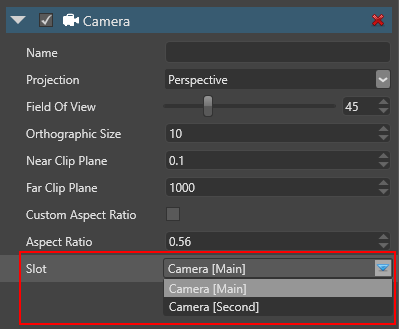
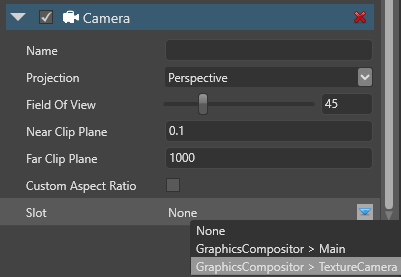
[Graphics compositor] render-to-a-texture.md - update

diff --git a/manual/graphics/graphics-compositor/render-to-a-texture.md b/manual/graphics/graphics-compositor/render-to-a-texture.md
@@ -4,7 +4,9 @@ You can render to textures in your scene instead of directly to the screen. For 
 
 ## 1. Create a camera slot
 
-Camera slots link the graphics compositor to the cameras in your scene. For more information, see [Camera slots](camera-slots.md).
+Camera slots link the graphics compositor to the cameras in your scene. You need to add a camera slot for your new camera to use.
+
+For more information, see [Camera slots](camera-slots.md).
 
 1. In the **asset view** (in the bottom pane by default), double-click the **Graphics Compositor** asset.
 
@@ -49,7 +51,7 @@ Game Studio adds a **render target** texture to your project assets.
 
 ![Render texture](media/render-target-texture-in-asset-view.png) 
 
-## 4. Use the render target texture
+## 4. Place the render target texture in the scene
 
 There are various ways you can use the render target texture.
 
@@ -89,21 +91,74 @@ There are various ways you can use the render target texture.
 
 ## 5. Set up the graphics compositor
 
-> [!Note]
-> There are several ways to implement this in the graphics compositor. This page explains one method.
+To display a render texture in your scene, you need at least two renderers:
+
+* one to render your main camera
+* one to render the second camera to the render texture
+
+This page describes the simplest way to do this from scratch, using a **scene render collection** of two cameras and two renderers. Depending on your pipeline, you might need to create a different setup.
 
 1. In the graphics compositor, select the **Entry points** node.
 
     ![Entry points node](media/entry-points-node.png)
 
-2. In the **property grid** on the right, next to **Game renderer**, click the blue arrow and select **
+2. In the **property grid** on the right, next to **Game renderer**, click the **blue arrow** button and select **None** to delete your existing renderers.
 
-...
+    ![Cleared game renderers](media/game-renderers-cleared.png)
 
-3. Select **SceneRendererCollection**.
+### 1. Render the main camera
 
-4. 
+1. Click the **blue arrow** button and select **SceneRendererCollection**. 
+
+    ![Select scene renderer collection](media/select-scene-renderer-collection.png)
+
+2. Next to **Children**, click the **Green plus icon** and select **Render camera**.
+
+    ![Select render camera](media/select-render-camera.png)
+
+3. Next to **Camera**, click the **blue arrow** button and select your **main game camera**. This shouldn't be the camera you want to render to a texture from.
+
+    ![Select main camera](media/select-main-camera.png)
+
+4. Next to **Child**, select the renderer for your main game camera (eg the **forward renderer**).
+
+    ![Select forward render](media/select-main-camera-forward-renderer.png)
+
+### 2. Render the texture
+
+1. Under **Game renderer**, next to **Children**, click the **Green plus icon** and select **Render camera**.
+
+    ![Select render camera](media/select-render-camera2.png)
+
+2. Expand the **Render Camera** list item.
+
+    ![Expand list](media/expand-list.png)
+
+3. Next to **Camera**, click the **blue arrow** button and select the camera you want to render to a texture. 
+
+    ![Select texture camera](media/select-texture-camera.png)
+
+4. Next to **Child**, click the **blue arrow** button and select **RenderTextureSceneRenderer**.
+
+    ![Select render texture scene renderer](media/render-texture-scene-renderer.png)
+
+5. Under the **RenderTextureSceneRenderer**, next to **Child**, click the **blue arrow** button and select renderer for your main game camera (eg the **forward renderer**).
+
+    ![Select forward renderer](media/select-forward-renderer2.png)
+
+6. Next to **Render Texture**, click the **hand icon** to open the **asset picker**.
+
+7. Select the **render texture** and click **OK**.
+
+    ![Select render texture](media/asset-picker-select-render-texture.png)
+
+Your game is now ready to render the camera to the texture in the scene.
 
 ## Sample
 
 For an example of rendering to a camera in a project, see the **Animation** sample included with Xenko.
+
+## See also
+
+* [Graphics compositor](index.md)
+* [Scene renderers](scene-renders.md)
